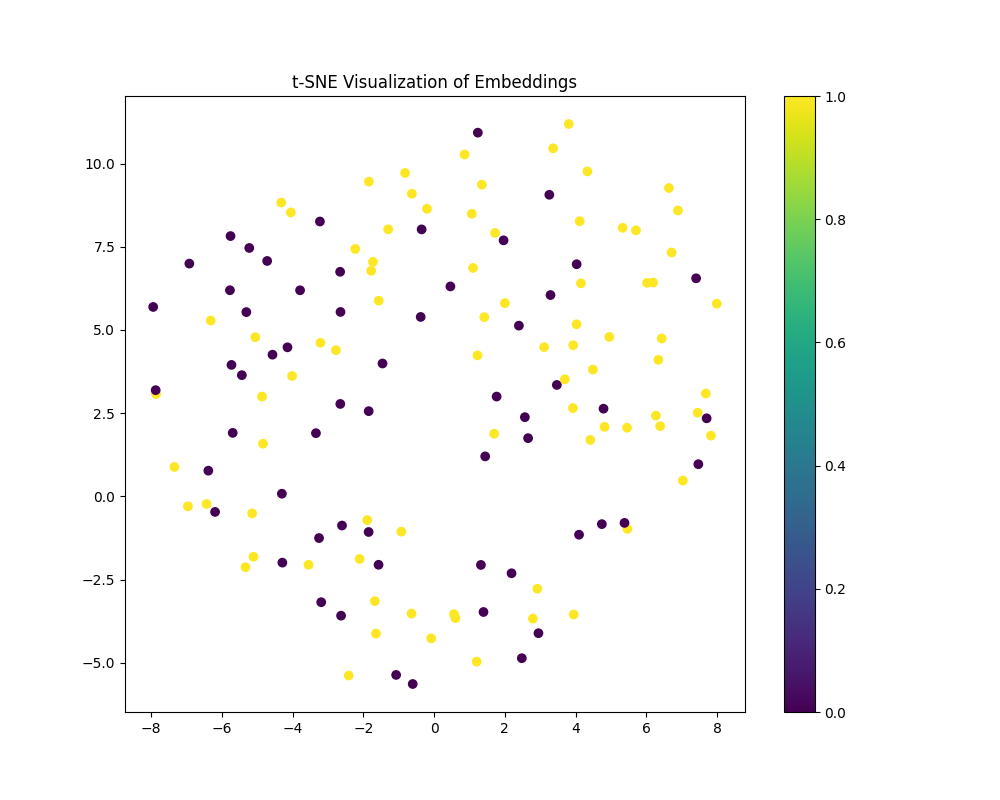
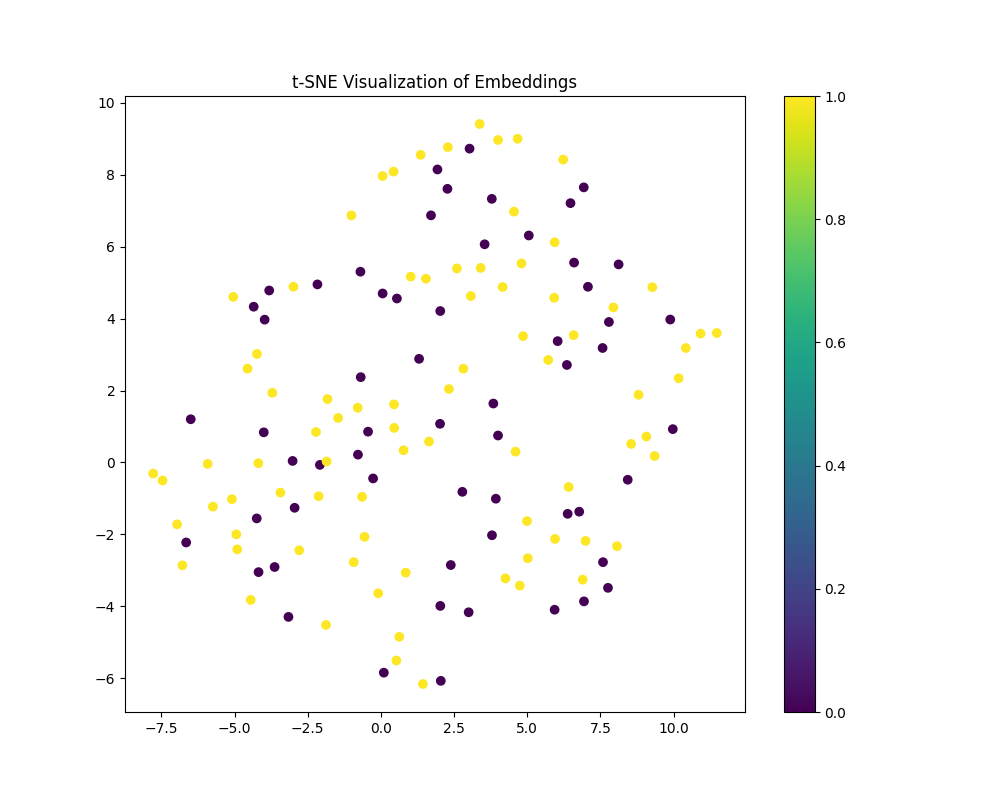
Added attention model with positional encoding (0.577, 0.0114). Updated embedding graphs to include both UMAP and t-SNE

diff --git a/src/models/ContrastiveLearning.py b/src/models/ContrastiveLearning.py
@@ -23,6 +23,42 @@ class FeatureExtractor(nn.Module):
         
         return self.fc(h_n)
     
+class PositionalEncoding(nn.Module):
+    def __init__(self, hidden_size, max_len=100):
+        super(PositionalEncoding, self).__init__()
+        position = torch.arange(max_len).unsqueeze(1)
+        div_term = torch.exp(torch.arange(0, hidden_size, 2) * (-np.log(10000.0) / hidden_size))
+        pe = torch.zeros(max_len, hidden_size)
+        pe[:, 0::2] = torch.sin(position * div_term)
+        pe[:, 1::2] = torch.cos(position * div_term)
+        self.pe = pe.unsqueeze(0) # Shape: (1, max_len, hidden_size)
+
+    def forward(self, x):
+        return x + self.pe[:, :x.size(1), :].to(x.device) # Add positional encoding to the input
+    
+class AttentionFeatureExtractor(nn.Module):
+    def __init__(self, input_size, hidden_size, output_size, num_heads=4):
+        super(AttentionFeatureExtractor, self).__init__()
+
+        self.input_projection = nn.Linear(input_size, hidden_size)
+        self.positional_encoding = PositionalEncoding(hidden_size)
+        self.attention = nn.MultiheadAttention(embed_dim=hidden_size, num_heads=num_heads, batch_first=True)
+        self.fc = nn.Linear(hidden_size, output_size)
+        self.layer_norm = nn.LayerNorm(hidden_size)
+
+    def forward(self, x):
+        if x.dim() == 2:
+            x = x.unsqueeze(-1)
+
+        x = self.input_projection(x)
+        x = self.positional_encoding(x)
+
+        attn_output, _ = self.attention(x, x, x) # Self-Attention across time steps
+        attn_output = self.layer_norm(attn_output + x) # Residual Connection & normalizaiton
+
+        pooled_output = attn_output.mean(dim=1) # Aggregate time step info
+        return self.fc(pooled_output) # Map to the final output embedding
+    
 # Projection head for contrastive loss
 class ProjectionHead(nn.Module):
     def __init__(self, input_dim, projection_dim, hidden_dim=256, dropout=0.1):
@@ -77,7 +113,7 @@ class SimplerHead(nn.Module):
 class ContrastiveModel(nn.Module):
     def __init__(self, input_size, hidden_size, output_size, projection_dim):
         super(ContrastiveModel, self).__init__()
-        self.encoder = FeatureExtractor(input_size, hidden_size, output_size)
+        self.encoder = AttentionFeatureExtractor(input_size, hidden_size, output_size, num_heads=2)
         self.projection = ProjectionHead(output_size, projection_dim)
 
     def forward(self, x):
@@ -344,6 +380,7 @@ def evaluate_encoder(model, dataloader, device):
     from sklearn.manifold import TSNE
     import matplotlib.pyplot as plt
     from sklearn.preprocessing import normalize
+    import umap.umap_ as umap
 
     # Use unaugmented test data
     model.eval()
@@ -360,12 +397,19 @@ def evaluate_encoder(model, dataloader, device):
     tsne = TSNE(n_components=2, perplexity=30, random_state=42, learning_rate=200, max_iter=3000)
     embeddings = np.concatenate(embeddings)
     embeddings = normalize(embeddings, axis=1)
+
+    umap_model = umap.UMAP(n_components=2, random_state=42)
+    umap_result = umap_model.fit_transform(embeddings)
+
     embeddings_2d = tsne.fit_transform(embeddings)
+
     labels = np.concatenate(labels)
 
-    plt.figure(figsize=(10, 8))
-    plt.scatter(embeddings_2d[:, 0], embeddings_2d[:, 1], c=labels, cmap='viridis')
-    plt.colorbar()
-    plt.title("t-SNE Visualization of Embeddings")
-    plt.savefig("tsne_embeddings.png")
+    fig, axes = plt.subplots(1, 2, figsize=(15, 6))
+    axes[0].scatter(umap_result[:, 0], umap_result[:, 1], c=labels, cmap='coolwarm')
+    axes[0].set_title("UMAP Visualization")
+    axes[1].scatter(embeddings_2d[:, 0], embeddings_2d[:, 1], c=labels, cmap='coolwarm')
+    axes[1].set_title("t-SNE Visualization")
+    plt.tight_layout()
+    plt.savefig("umap_tsne.png")
     plt.close()

diff --git a/src/main.py b/src/main.py
@@ -54,7 +54,7 @@ def main():
 
 
     train_encoder(encoder, train_dataloader_encoder, optimizer, device, num_epochs=200, print_bool=True)
-    evaluate_encoder(encoder, test_dataloader, device)
+    # evaluate_encoder(encoder, test_dataloader, device)
     # return # Breakpoint for t-SNE visualization
 
     model = TestClassifier(encoder, 128, 1)
@@ -69,7 +69,7 @@ def main():
     return accuracy, precision, recall, f1
 
 if __name__ == "__main__":
-    visualize_flag = False
+    visualize_flag = True
     if not visualize_flag:
         main()
 
